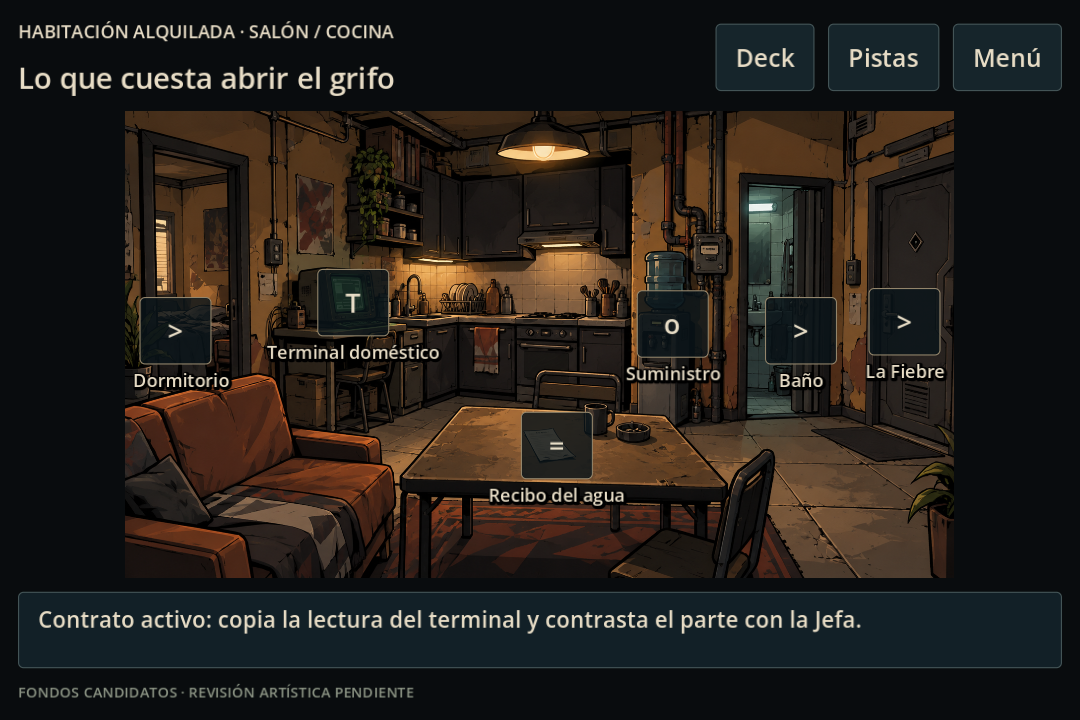
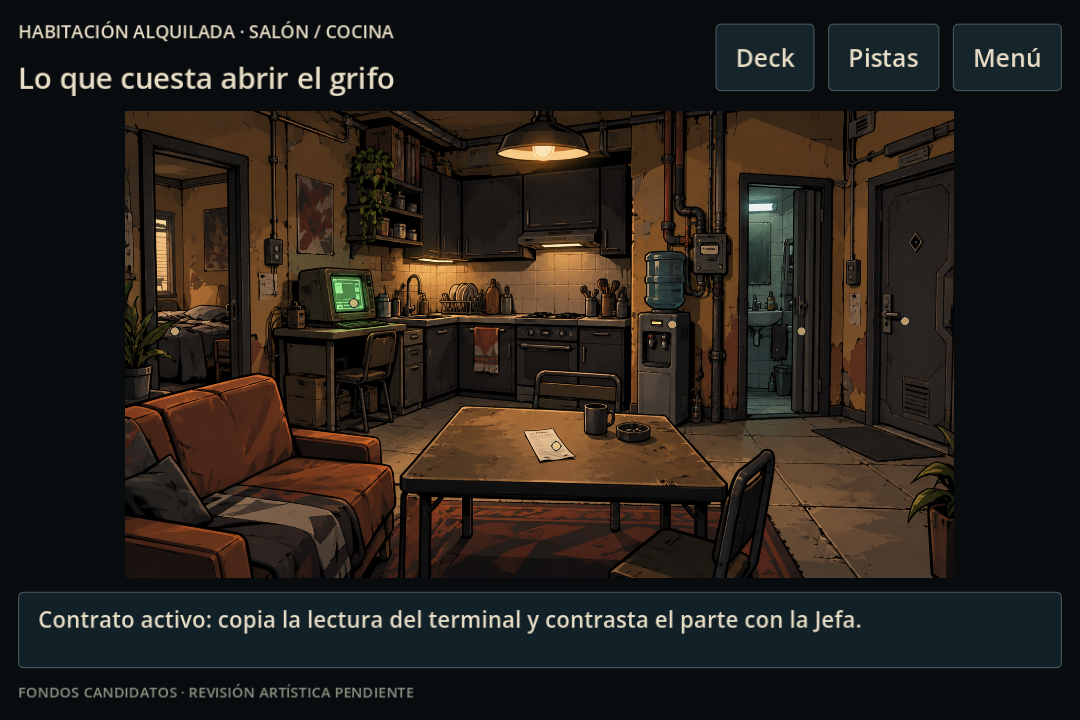
fix: hacer discretos los puntos interactivos

diff --git a/docs/VALIDACION.md b/docs/VALIDACION.md
@@ -7,18 +7,18 @@
 | Comprobación | Resultado |
 | --- | --- |
 | Importación del proyecto y arranque | Sin errores de script/importación registrados |
-| `tests/run.gd`, headless | **137 comprobaciones, 0 fallos** |
-| Mismo recorrido nativo con GPU Apple M4 | **156 comprobaciones, 0 fallos**; incluye 19 capturas |
+| `tests/run.gd`, headless | **162 comprobaciones, 0 fallos** |
+| Mismo recorrido nativo con GPU Apple M4 | **181 comprobaciones, 0 fallos**; incluye 19 capturas |
 | `tests/preservation.py` | Canon, cinco originales, dos copias de diálogo idénticos; un proyecto activo; ninguna dependencia 3D |
 | Exportación Web, sin hilos | Generada correctamente con las plantillas 4.7.2 |
 
-Los conteos difieren porque la ejecución GPU incluye comprobaciones de escritura de capturas. La última versión excluye del cotejo de límites los indicadores ocultos en vertical; en ese formato se usa una lista desplazable. No sumar las cifras como si fuesen casos independientes.
+Los conteos difieren porque la ejecución GPU incluye comprobaciones de escritura de capturas. En las cuatro proporciones se comprueba que cada área táctil siga sobre la ilustración, sin rótulos superpuestos; en vertical se pulsa directamente una persona con `InputEventScreenTouch`. No sumar las cifras como si fuesen casos independientes.
 
 Las pruebas cubren: IDs/destinos y condiciones, cuatro zonas/doce vistas registradas, partida nueva, bloqueo previo al contrato, menú/opciones/créditos/continuar, intro saltable, deck, mensaje, aceptación, cocina/baño, documentos y paginación, terminal y registro, conversación/elección/flags, ruta a La Fiebre, persistencia de cada campo y rechazo de formatos inválidos, recuperación de `.bak`, rechazo de zona futura y limpieza de nueva partida. Se prueban READY_TO_COMPLETE y COMPLETED con efectos sintéticos de futuros hitos, sin atribuir esos contenidos al juego actual.
 
 Entrada: eventos `InputEventMouseButton` y `InputEventScreenTouch` entregados al viewport. Se pulsa también la opción de diálogo mediante su botón. No son pruebas con un dedo físico.
 
-Resoluciones nativas capturadas: 1280×720, 844×390, 1024×768 y 390×844. Ilustración completa, controles dentro del encuadre; diálogo desplazable. Horizontal es la composición recomendada. Vertical usa retratos menores y una lista de acciones para mantener legibilidad y acceso.
+Resoluciones nativas capturadas: 1280×720, 844×390, 1024×768 y 390×844. Ilustración completa, controles dentro del encuadre; diálogo desplazable. Horizontal es la composición recomendada. En vertical los hotspots permanecen sobre la imagen y la lista de acciones sólo aparece al abrir «Pistas».
 
 [Log headless](evidence/pruebas_headless.log) · [Log GPU](evidence/pruebas_nativas.log) · [Integridad](evidence/preservacion.log).
 
@@ -28,7 +28,7 @@ Helium/Chromium, WebGL 2, servidor HTTP local. Comprobados visualmente menú, in
 
 Se ajusta el viewport a 844×390. Un `TouchEvent` de inicio/fin enviado al canvas sobre Deck abre su interfaz. Es una comprobación del recorrido táctil del navegador de escritorio, no una certificación de Safari ni de un teléfono real.
 
-Consola sin errores de ejecución registrados. Se corrigieron símbolos ausentes de la fuente Web usando indicadores con caracteres disponibles. Los cambios finales de etiquetas acortan la salida de la cocina para evitar el solape con «Baño».
+Consola sin errores de ejecución registrados en la revisión del hito 1. En la corrección móvil posterior, se reemplazaron los indicadores con letras y rótulos por puntos de luz y áreas táctiles transparentes. A 844×390 se comprobó visualmente el dormitorio, un `TouchEvent` sobre la puerta que lleva a la cocina, una observación sobre el suministro y la apertura del terminal desde «Pistas».
 
 [Consola](evidence/web_consola.log) · [Errores](evidence/web_errores.log) · [Antes de recargar](evidence/web_cocina_antes_recarga.png) · [Después](evidence/web_cocina_tras_recarga.png) · [Toque sobre Deck](evidence/web_toque_deck.png).
 
@@ -40,6 +40,7 @@ La persistencia observada es entre recargas del mismo origen y perfil. Borrar al
 - [Contrato](evidence/04_contrato.png), [cocina](evidence/05_cocina.png), [documento](evidence/06_documento.png), [terminal](evidence/07_terminal.png).
 - [Baño](evidence/08_bano.png), [Sota sola](evidence/09_monologo.png), [La Fiebre](evidence/10_fiebre.png), [diálogo](evidence/11_dialogo.png).
 - [Horizontal móvil](evidence/dialogo_844x390.png), [vertical](evidence/viewport_390x844.png).
+- [Dormitorio Web con puntos discretos](evidence/web_movil_sutil_dormitorio.png), [cocina tras toque directo](evidence/web_movil_sutil_toque.png), [acciones a petición](evidence/web_movil_sutil_pistas.png).
 
 Son capturas del juego ejecutándose, no maquetas. Los PNG fuente de fondos no se utilizan como prueba de interfaz. Se revisaron composición, retratos, etiquetas, desplazamiento y transiciones. Se corrigieron botones superpuestos, referencias a pantallas liberadas al redimensionar y opciones de diálogo recortadas en vertical.
 

diff --git a/proceso/ESTADO_DEL_PROYECTO.md b/proceso/ESTADO_DEL_PROYECTO.md
@@ -18,7 +18,7 @@ Canon intacto. Dos retratos originales ilustrados (Sota/Jefa) migrados sin alter
 
 ## Entrega del asistente: hito 1
 
-Menú, opciones, créditos, intro saltable, tres habitaciones y primer pasaje de La Fiebre. Hotspots por datos, observaciones, terminal, documentos paginados y leídos, diálogo con temas/elecciones/revisita, Sota izquierda/Jefa derecha y hablante iluminado. Deck con mensajes, contrato, archivo, noticias, contactos y lugares. Guardado v1, copia anterior, recuperación y nueva partida confirmada con respaldo fechado. Interacción de ratón y toque, texto desplazable y formato vertical con lista de acciones.
+Menú, opciones, créditos, intro saltable, tres habitaciones y primer pasaje de La Fiebre. Hotspots por datos, observaciones, terminal, documentos paginados y leídos, diálogo con temas/elecciones/revisita, Sota izquierda/Jefa derecha y hablante iluminado. Deck con mensajes, contrato, archivo, noticias, contactos y lugares. Guardado v1, copia anterior, recuperación y nueva partida confirmada con respaldo fechado. Interacción de ratón y toque sobre la ilustración, puntos de luz discretos y lista de acciones a petición dentro de «Pistas».
 
 Contrato **`retorno_agua`**: mensaje → aceptar → copiar lectura doméstica → contrastar con Jefa. El contrato permanece ACTIVE al terminar el contenido del hito. El Nudo y Los Puntales tienen IDs, rutas y condiciones, pero sus vistas no están construidas. Doce vistas registradas, cuatro construidas. No hay desenlace ni duración final comprobada.
 
@@ -30,7 +30,7 @@ Cotas, jerarquía, tecnología física y límites de la Nómina proceden del can
 
 ## Resultados probados
 
-Importación y arranque correctos. **137 comprobaciones headless y 156 nativas con GPU, cero fallos**, incluidas 19 capturas reales. Integridad de canon, cinco originales y dos copias; una única implementación sin dependencia 3D. Web exportada y comprobada en Helium/WebGL 2: clic, toque sintético, contrato y recuperación de ubicación/progreso después de recargar. Cuatro tamaños de viewport nativo, incluido vertical.
+Importación y arranque correctos. **162 comprobaciones headless y 181 nativas con GPU, cero fallos**, incluidas 19 capturas reales. Integridad de canon, cinco originales y dos copias; una única implementación sin dependencia 3D. Web exportada y comprobada en Helium/WebGL 2: clic, toque sintético, contrato y recuperación de ubicación/progreso después de recargar. Cuatro tamaños de viewport nativo, incluido vertical. Tras la corrección de indicadores, se verificaron además la pulsación directa en vertical, el panel «Pistas» y un toque Web sobre la puerta a 844×390.
 
 [Resultados, evidencias y límites](../docs/VALIDACION.md). No se han probado móviles físicos, Safari/iOS, Windows ni Linux. El navegador depende de su almacenamiento local. No hay música ni efectos finales; los buses están preparados. Las pruebas técnicas no constituyen aprobación artística.
 
@@ -42,5 +42,6 @@ Revisión del autor sobre la propuesta narrativa y los cuatro fondos. Completar 
 
 - **20 oct 2026 · decisión del autor:** abandonar la implementación anterior y construir una aventura ilustrada en primera persona, con misiones, contratos y progresión.
 - **20 oct 2026 · entrega del asistente:** retiro recuperable, proyecto único, hito 1 jugable y pruebas descritas arriba. **Pendiente de revisión narrativa y artística por el autor.**
+- **20 oct 2026 · corrección solicitada por el autor:** retirar los rótulos y botones grandes sobre los objetos, con prioridad móvil. **Entrega del asistente:** puntos pequeños, toque directo sobre la imagen y acciones nombradas sólo al abrir «Pistas». Verificación técnica y visual realizada; el autor aún no ha aprobado esta presentación.
 
 El historial de las etapas anteriores está íntegro en la rama de respaldo y la copia local; no describe la producción actual.

diff --git a/docs/GAME_DESIGN.md b/docs/GAME_DESIGN.md
@@ -41,7 +41,7 @@ Las fases futuras se prueban con datos sintéticos, pero **no se completan en el
 
 ## Interacciones
 
-Hotspots con ID por pantalla, tipo, etiqueta, rectángulo normalizado, condición visible y disponible, y destino. El indicador se centra en ese rectángulo y mantiene un tamaño táctil mínimo; la imagen se contiene completa. En vertical se ofrece la misma lista de acciones bajo la ilustración para evitar solapes.
+Hotspots con ID por pantalla, tipo, etiqueta, rectángulo normalizado, condición visible y disponible, y destino. El jugador toca directamente la zona del objeto o acceso en la ilustración, también en vertical. Un punto de luz de 9 unidades lógicas indica su centro sin cubrirla con letras; el área táctil mantiene un mínimo de 56 unidades lógicas. «Pistas» abre, sólo a petición, la lista de acciones disponibles en la vista y permite ocultar los puntos. La ilustración se contiene completa en cada proporción.
 
 - OBJECT: observación breve, sin diálogo modal.
 - PERSON: diálogo con temas, condiciones, efectos, elecciones y salida.

diff --git a/task.md b/task.md
@@ -23,7 +23,7 @@ Dirección del autor, 20 oct 2026: aventura **2D ilustrada en primera persona**,
 - [x] Cuatro zonas y doce IDs registrados; rutas y permisos; zonas futuras identificadas.
 - [x] Guardado versionado, copia de seguridad, recuperación, continuar y reinicio confirmado.
 - [x] Opciones de volumen/buses, texto grande, indicadores y reducción de transiciones.
-- [x] Ratón y toque, desplazamiento de texto y lista de acciones en vertical.
+- [x] Ratón y toque directos en la ilustración, puntos de luz discretos, lista de acciones a petición y desplazamiento de texto.
 - [x] Importación, pruebas automáticas, ejecución nativa con GPU y capturas reales.
 - [x] Exportación Web, clic/toque sintético, recarga y persistencia en navegador de escritorio.
 - [x] README, AGENTS, diseño, arte, recuperación y continuidad renovados.

diff --git a/README.md b/README.md
@@ -23,7 +23,7 @@ En este Mac:
 /Applications/Godot.app/Contents/MacOS/Godot --path game
 ```
 
-Todo se juega con clic o toque. **Deck** abre mensajes, contratos, archivo, noticias, contactos y lugares. **Pistas** atenúa los indicadores. En pantallas estrechas hay una lista táctil bajo la ilustración. Los textos extensos se desplazan. Se recomienda horizontal.
+Todo se juega con clic o toque. **Deck** abre mensajes, contratos, archivo, noticias, contactos y lugares. Los objetos y accesos se tocan directamente en la ilustración; pequeños puntos de luz indican dónde. **Pistas** abre la lista de acciones y permite ocultar los puntos. Los textos extensos se desplazan. Se recomienda horizontal.
 
 ### Recorrido de comprobación
 
